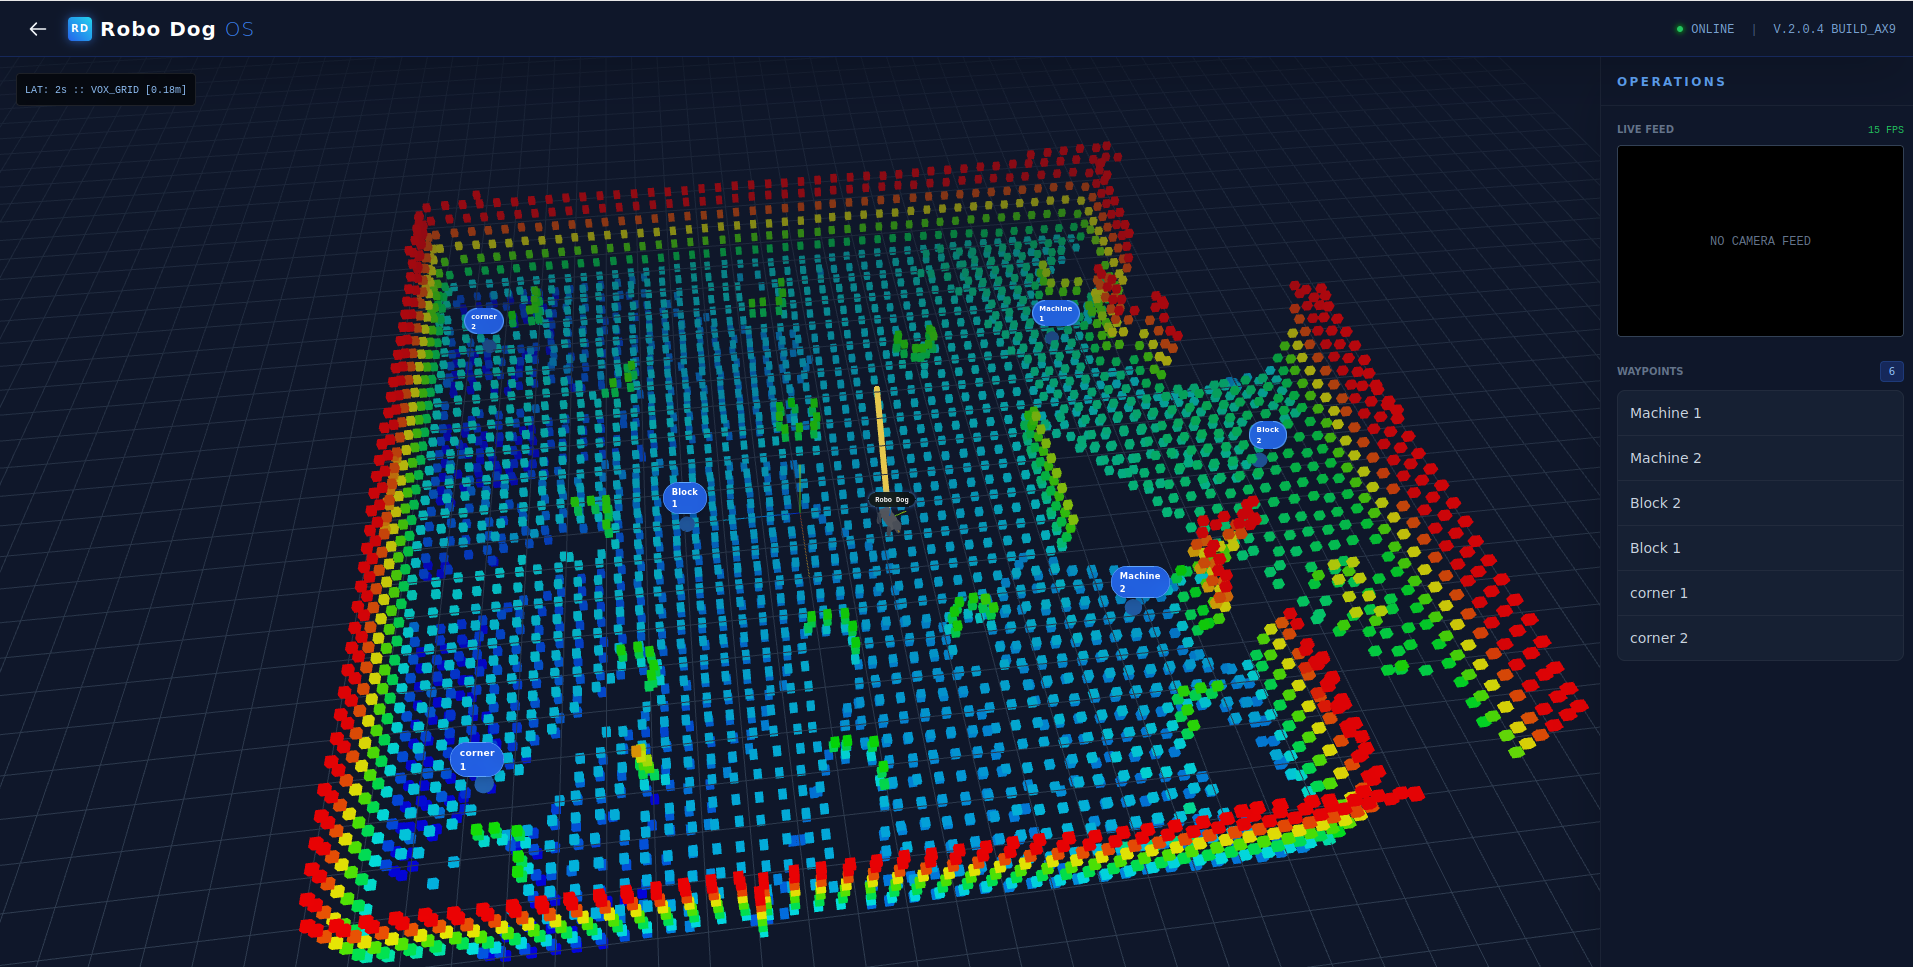
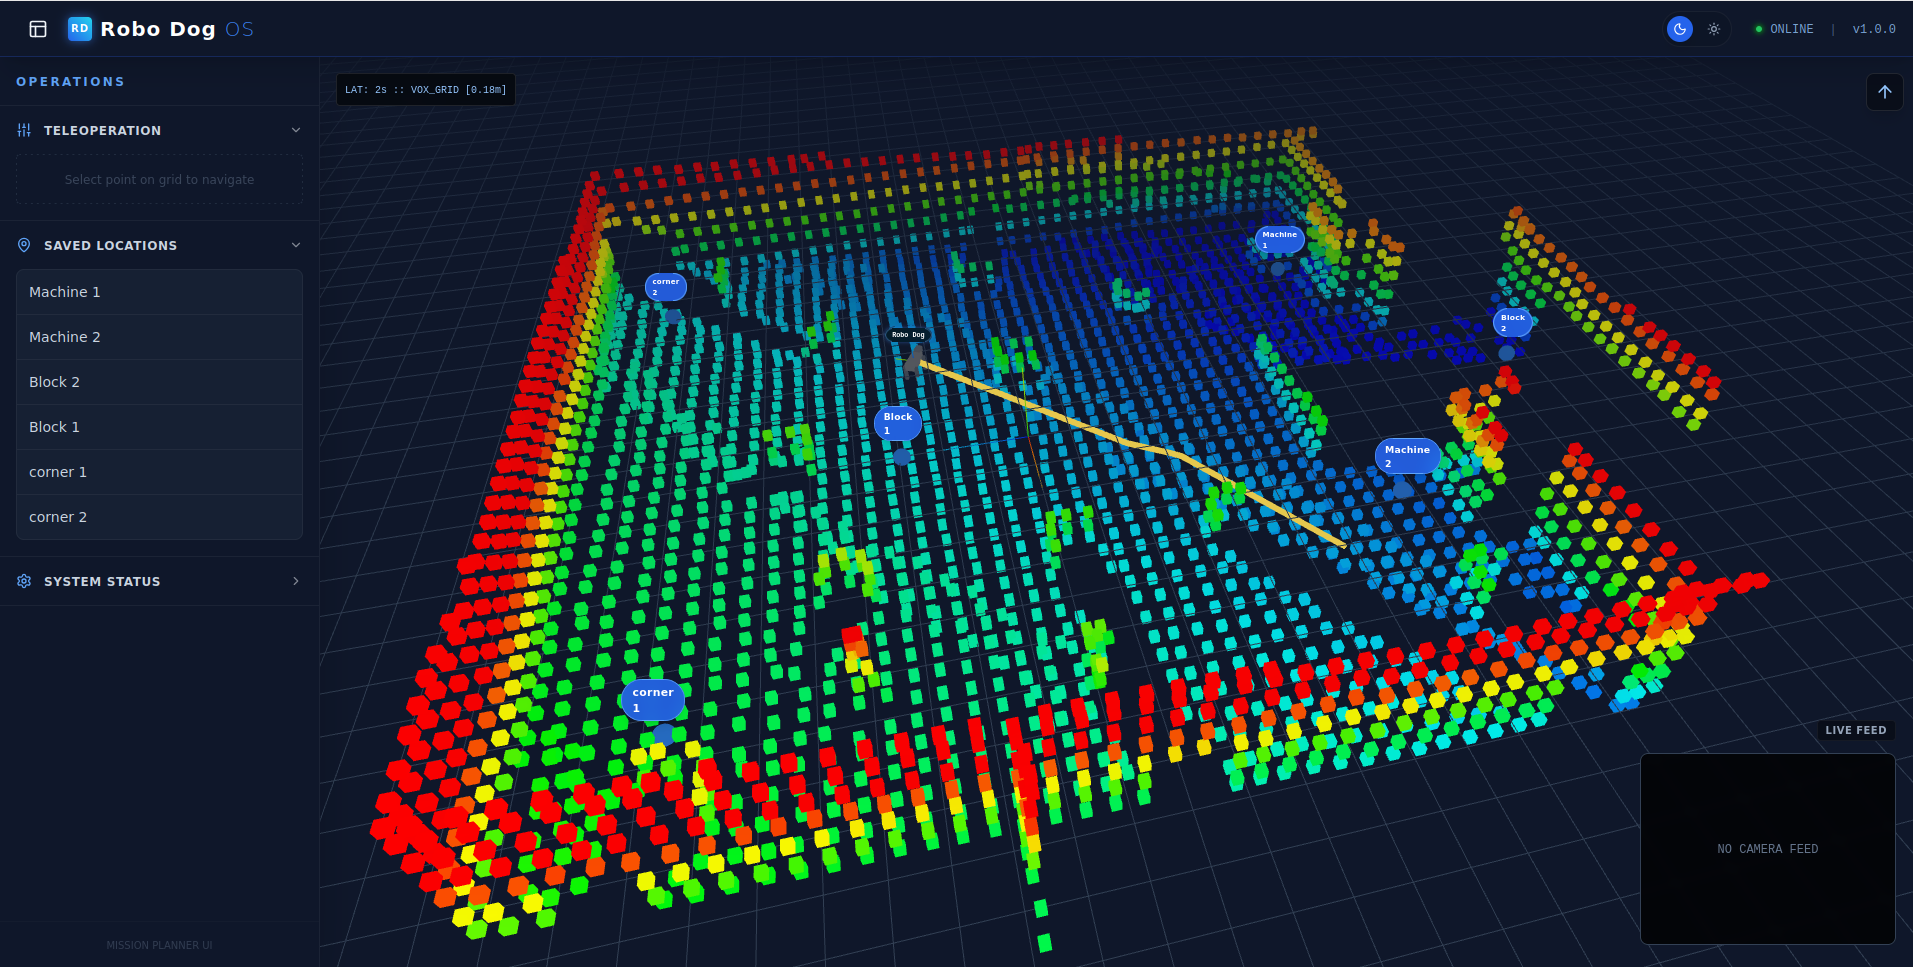
feat: Add documentation for the Mission Planning UI and Voxelized Point Cloud, including a new UI image.

diff --git a/README.md b/README.md
@@ -135,6 +135,47 @@ The cyan lines show the **visibility graph** - navigation nodes that can "see" e
 
 ---
 
+## Mission Planning UI
+
+A modern, web-based interface is provided for high-level mission control and telemetry visualization.
+
+<p align="center">
+  <img src="docs/images/Mission_Planner_UI.png" alt="Mission Planner UI" width="800" />
+</p>
+
+### Frontend Features
+- **Interactive Map**: Point-and-click interface to set navigation goals on the global map.
+- **Waypoint Management**: specific locations can be saved, named, and recalled from a persistent list.
+- **Live Video Feed**: Low-latency video streaming from the robot's camera.
+- **Teleoperation**: Virtual joystick for manual control overrides.
+
+### Backend Architecture
+The backend uses **FastAPI** to bridge ROS2 topics with the web frontend via WebSockets.
+
+- **Technology**: Python (FastAPI, Uvicorn), AsyncIO.
+- **Real-time Data**:
+  - `/ws/points` &rarr; Stream of voxelized point clouds.
+  - `/ws/tf` &rarr; Robot pose and map transforms.
+  - `/ws/video` &rarr; JPEG-encoded camera stream.
+- **Persistence**: `waypoints.json` stores user-defined locations.
+
+---
+
+## Voxelized Point Cloud
+
+To ensure smooth performance on the web interface, the high-density SLAM point cloud is downsampled before transmission.
+
+### Overview
+- **Node**: `voxel_grid_node` (C++)
+- **Function**: Applies a PCL VoxelGrid filter to reduce point count (~10x reduction) while preserving structural features.
+- **Topic Flow**:
+  - Input: `/registered_scan_o3d` (High density from SLAM)
+  - Output: `/registered_scan_o3d/voxelized` (Optimized for Web UI)
+- **Configuration**:
+  - `voxel_size`: Default `0.1m` (balances bandwidth vs. detail).
+
+---
+
 ## Quick Start
 
 ### Prerequisites
